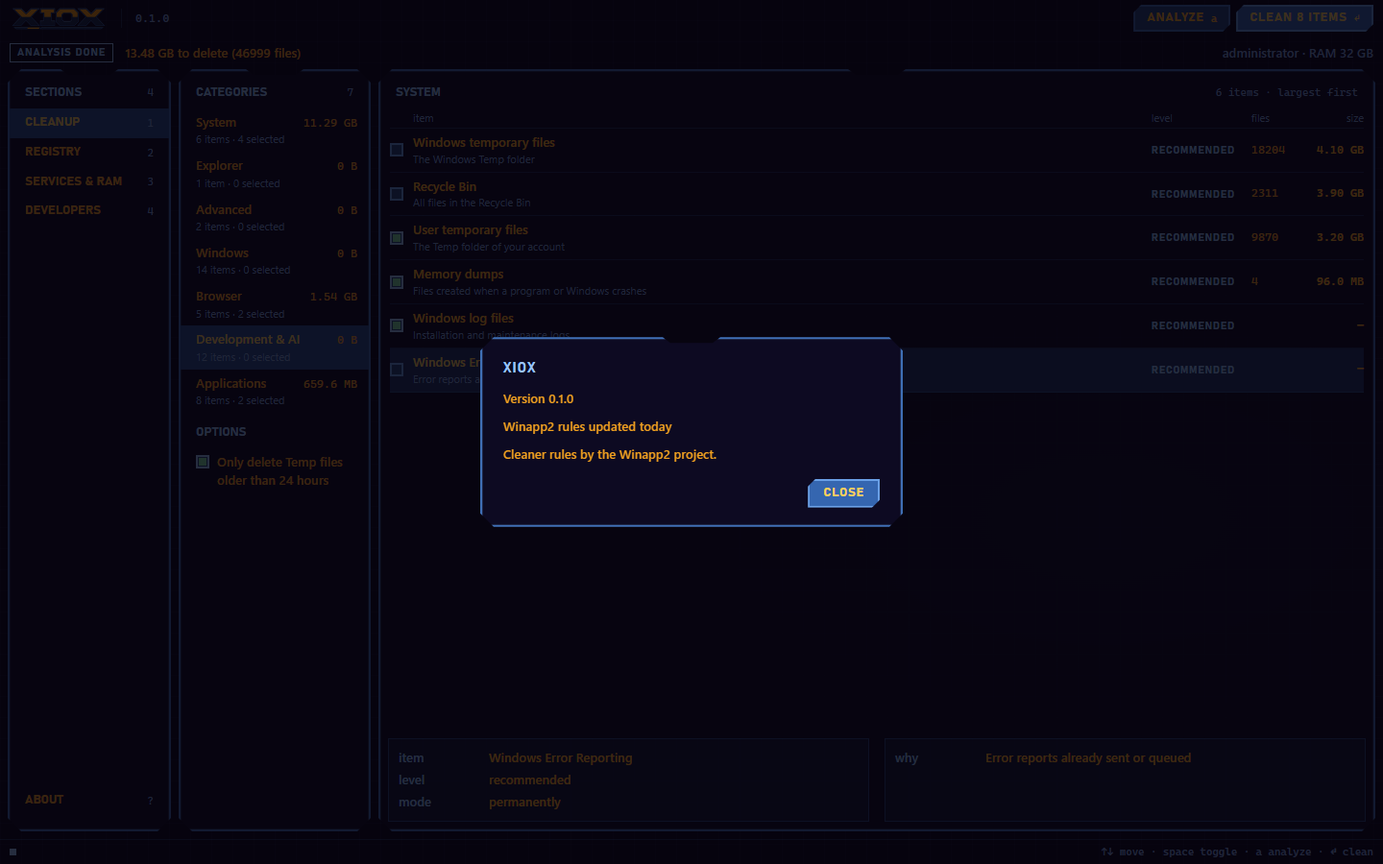
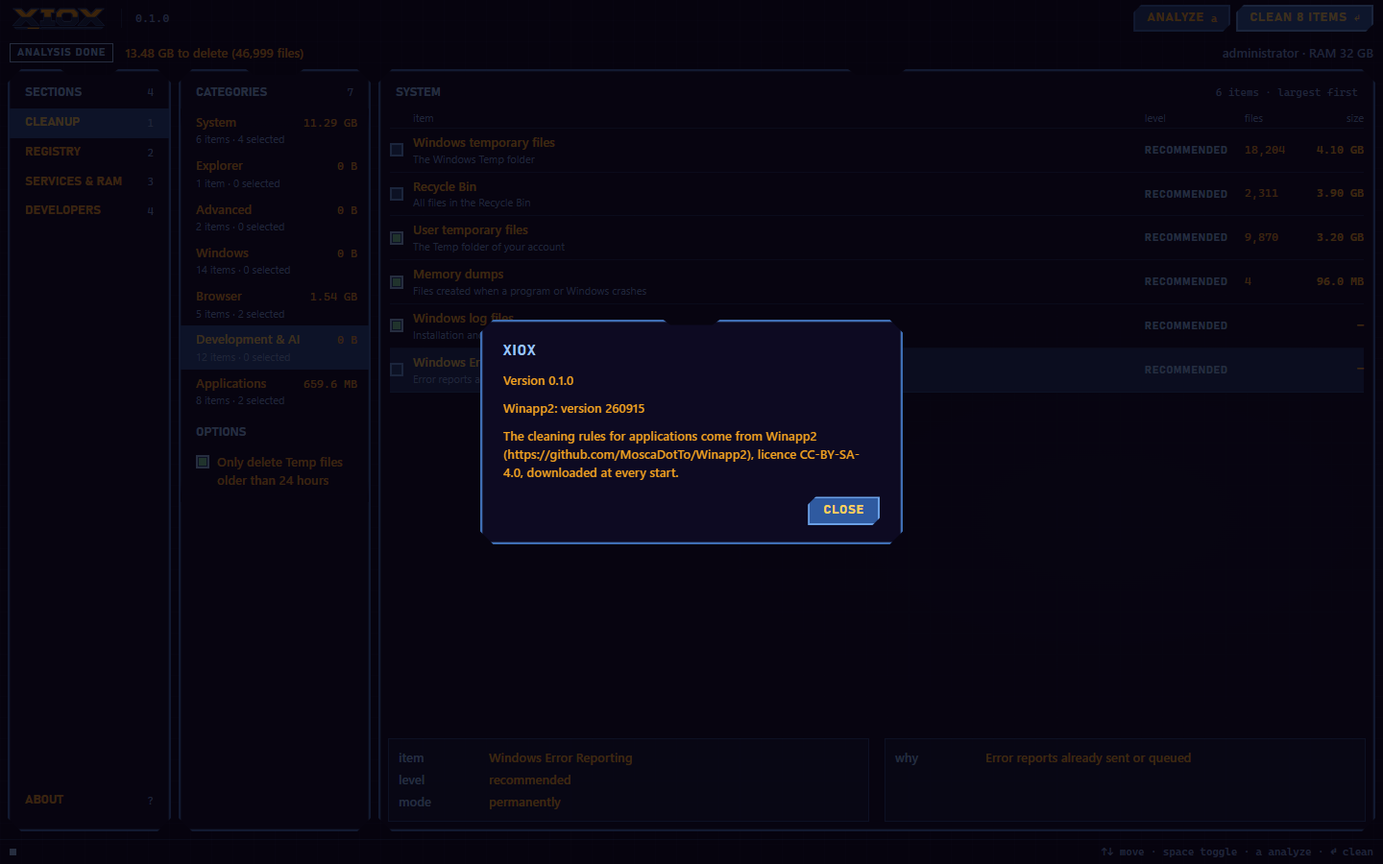
docs: guida, README e avvisi allineati; schermate rifatte
Guida: la sezione si chiama Cleanup ovunque (ancore comprese), nomi nuovi dei
file di dati (registry-backup, rules-backup, services-original,
cookie-keep-list) con una frase sui file con i nomi vecchi, gli avvisi con
+N more e i percorsi del resoconto descritti come sono ora. README: via "as the
old window did", badge dei test statico. package.json: engines node >=24.
THIRD_PARTY_NOTICES e xiox-cli.md corretti. Note interne in italiano segnate
come tali. Schermate rifatte dalle nuove da 1440x900 (About con
l'attribuzione); tolte le quattro vecchie schermate egui in shots/.

diff --git a/docs/xiox-desktop.md b/docs/xiox-desktop.md
@@ -1,7 +1,7 @@
 # Xiox: the desktop app
 
 Xiox is a Windows cleaner for people who code. The desktop app (`xiox-ui.exe`) is one window
-with four sections: **Files** (temporary files, caches, browser data, logs), **Registry**
+with four sections: **Cleanup** (temporary files, caches, browser data, logs), **Registry**
 (entries that point to files or programs that no longer exist), **Services & RAM** (services
 you can turn off, and how much memory they hold) and **Developers** (build folders, git
 worktrees and archived coding-agent sessions of every project on the PC).
@@ -14,7 +14,7 @@ uses.
 
 - [Starting it](#starting-it)
 - [The window](#the-window)
-- [Files](#files)
+- [Cleanup](#cleanup)
 - [Registry](#registry)
 - [Services & RAM](#services--ram)
 - [Developers](#developers)
@@ -53,19 +53,19 @@ the app prints a message and exits with code 2, instead of falling back to your 
 
 At start the app also loads the cleaning rules (and updates Winapp2 in the background, see
 [About](#about)) and removes the leftovers of a free-space wipe that a power cut or a crash
-interrupted (see [Files](#files)).
+interrupted (see [Cleanup](#cleanup)).
 
 ## The window
 
 ```text
 ┌────────────────────────────────────────────────────────────────────────────┐
 │ XIOX  0.1.0                                      [ Analyze a ] [ Clean … ↵ ]│  top bar
-│ ANALYSIS DONE   13.48 GB to delete (46999 files)  administrator · RAM 32 GB │  status row
+│ ANALYSIS DONE   13.48 GB to delete (46,999 files)  administrator · RAM 32 GB │  status row
 │ Cleaning…  ████████░░░░  64%  Windows temporary files                        │  progress (while a job runs)
 │ Xiox is cleaning the profile of “…”, not that of “…” …                       │  profile strip (when it applies)
 ├──────────┬────────────┬─────────────────────────────────────────────────────┤
 │ SECTIONS │ CATEGORIES │ title ................................  All  None    │
-│ Files   1│ System     │ ☐  Item         Level          Files        Size    │  list
+│ Cleanup 1│ System     │ ☐  Item         Level          Files        Size    │  list
 │ Registry2│ Explorer   │ ☑  …                                                │
 │ Services3│ …          │                                                     │
 │ Develop.4│ OPTIONS    ├─────────────────────────────────────────────────────┤
@@ -82,7 +82,7 @@ below say when. The style sheet writes the button labels in capitals; this guide
 they are written in the sentences of the app.
 
 **Status row.** On the left a badge (`Ready`, `Analyzing`, `Analysis done`, `Cleaning`,
-`Cleanup done`, ...) and a sentence with the figures (`13.48 GB to delete (46999 files)`,
+`Cleanup done`, ...) and a sentence with the figures (`13.48 GB to delete (46,999 files)`,
 `40 issues found · 2 selected`). On the right who you are running as, `administrator` or
 `standard user`, and the PC's total memory (`RAM 32 GB`).
 
@@ -96,9 +96,8 @@ approved with another administrator's password. "Your" Temp folder, browser data
 per-user locations are then those of account A, not of the person sitting at the screen. Close
 the app and start it again from the right account if that is not what you want.
 
-**Sections bar (the first sidebar).** Files `1`, Registry `2`, Services & RAM `3`,
-Developers `4`, and `About` (`?`). The number is the key that opens the section. The Files
-section is the entry named `Cleanup` in this bar.
+**Sections bar (the first sidebar).** Cleanup `1`, Registry `2`, Services & RAM `3`,
+Developers `4`, and `About` (`?`). The number is the key that opens the section.
 
 **Categories bar (the second sidebar).** The categories of the open section, each with its
 item count and, after an analysis, its size (`System`, `Explorer`, ...; for Developers
@@ -121,7 +120,10 @@ ticked. A caret folds and unfolds the rows under a parent. Where a section has m
 holds how many cookies.
 
 **Notices.** Coloured one-line strips above the list: a result, a warning, or an error or
-refusal. A strip that has more to say ends with `+2 more`; hover it to read the rest.
+refusal. A strip that has more to say ends with a `+2 more` button: reach it with `Tab` and press
+`Enter` or `Space` to open the extra lines under the strip, and again to close them. A result that
+only half worked (some keys not fixed, some services that failed) is shown in the warning colour,
+not as a success.
 
 **Footer.** The keys of the open section (`↑↓ move · space toggle · a analyze · ↵ clean`) and,
 in some sections, a line about the selection (`Selected in Projects: 6.80 GB · 2 folders`).
@@ -129,7 +131,7 @@ in some sections, a line about the selection (`Selected in Projects: 6.80 GB · 
 While a job runs the lists are frozen: you cannot tick or untick anything, because the
 selection is what the job is working on.
 
-## Files
+## Cleanup
 
 Temporary files, caches, browser data, logs and the other things Windows and your programs
 leave behind. This is the section the app opens in.
@@ -163,7 +165,7 @@ that choice belongs to [Developers](#developers).
 
 **Options.** `Only delete Temp files older than 24 hours`: when it is on, temporary folders are
 cleaned of files at least a day old, so a program that is writing a file right now keeps it. In
-`Browser`, `Edit cookie keep list` opens `Documents\Xiox\cookie_da_conservare.txt` in Notepad
+`Browser`, `Edit cookie keep list` opens `Documents\Xiox\cookie-keep-list.txt` in Notepad
 (it creates the file if it is missing): one domain per line, and the cookies of those sites are
 not removed. In `Applications`, a line says whether the Winapp2 rules are up to date.
 
@@ -219,7 +221,7 @@ or press `None` and tick only what you want. Nothing is changed until you press
 
 | Button | What it does |
 |---|---|
-| `Yes, back up and fix` | saves a `.reg` copy of the keys it is about to change in `Documents\Xiox` (the file is named `backup_registro_<date>_<time>.reg`, and an existing file is never overwritten), then fixes |
+| `Yes, back up and fix` | saves a `.reg` copy of the keys it is about to change in `Documents\Xiox` (the file is named `registry-backup-<date>_<time>.reg`, and an existing file is never overwritten), then fixes |
 | `Fix without backup` | fixes without saving anything |
 | `Cancel` | closes the question, nothing happens |
 
@@ -227,8 +229,9 @@ If the backup cannot be written, **nothing is fixed** and a notice says why (*Re
 failed (...): no repair was done.*).
 
 **The result** is a notice (`Fixed 2 issues.`, with the path of the backup on the line behind
-`+1 more`). If some keys could not be changed it adds how many and why (*not fixed
-(administrator rights are needed)*: start the app as administrator). When everything was fixed
+`+1 more`). If some keys could not be changed it adds how many and why (*1 not fixed
+(administrator rights are needed)*: start the app as administrator), and the strip turns to the
+warning colour. When everything was fixed
 the fixed issues leave the list; when something failed they stay.
 
 **There is no restore button in the app.** To go back, double-click the `.reg` file of the
@@ -247,8 +250,9 @@ services the first time you open it; `Refresh` (`a`) reads them again.
 **Show: Recommended / All.** `Recommended` (the default) lists only the services Xiox suggests
 turning off, each with the reason in the `why turn it off` line of the detail (*Needs a fax
 modem, which almost no PC has.*, *Sends usage data to Microsoft; Windows works without it.*).
-`All` lists every service. The search box filters by display name or service name. The status
-row says how many services were read and how many are recommended to turn off.
+`All` lists every service. The search box filters by display name or service name; when nothing matches, the list says
+`No services` and *Nothing matches “x”.* (*No services to show.* when there is no search). The
+status row says how many services were read and how many are recommended to turn off.
 
 **Memory.** The `RAM in use` meter in the second sidebar changes tone as the memory fills (a
 warning above 65%, an error above 85%) and is refreshed every two seconds while the section is
@@ -277,7 +281,7 @@ firewall, Windows Defender, Windows Update, the network stack, ...) and everythi
 an ordinary service process (drivers).
 
 **Restoring.** The first time Xiox changes a service it saves the service's startup type in
-`Documents\Xiox\servizi_originali.txt` (only the very first state is kept). `Restore originals`
+`Documents\Xiox\services-original.txt` (only the very first state is kept). `Restore originals`
 puts every saved one back and starts the ones that were `Automatic`. A service that could not be
 restored stays in the file for the next try.
 
@@ -298,7 +302,7 @@ those agents worked in; you can add more folders to look through.
 
 These options are saved (see [Where things are stored](#where-things-are-stored)). A note under
 `Deletion` reminds you that the Recycle Bin frees no space until you empty it, and that the
-`Recycle Bin` entry of Files empties it. If the settings cannot be saved a red line says so
+`Recycle Bin` entry of Cleanup empties it. If the settings cannot be saved a red line says so
 (`Settings not saved: ...`) and the options only last until you close the app.
 
 **Analyze** (`a`). Looks at the projects (the progress bar says `Looking at projects…`), then
@@ -362,7 +366,7 @@ permanently.*), then the figures (`2 folders · 6.80 GB`) and one line per folde
 
 **Space freed.** A cleaning that goes to the Recycle Bin frees no space yet: the report says
 `Sent to the Recycle Bin` with the size, and the status row `Space freed: 0 B`. The space comes
-back when you empty the Recycle Bin (the `Recycle Bin` entry of [Files](#files) does that).
+back when you empty the Recycle Bin (the `Recycle Bin` entry of [Cleanup](#cleanup) does that).
 
 ## Levels and blocked entries
 
@@ -382,7 +386,7 @@ of the row says why. The reason is a fact about your PC right now:
 
 | Where | Reason shown |
 |---|---|
-| Files | *Close Google Chrome to clean* (the program is running); *... : this option cannot be used* (the rule is not supported on this system); *Needs administrator: some folders are skipped* |
+| Cleanup | *Close Google Chrome to clean* (the program is running); *... : this option cannot be used* (the rule is not supported on this system); *Needs administrator: some folders are skipped* |
 | Services | *Needed by Windows: protected* |
 | Projects | *The project is in use by an agent: its folders are cleaned when the session is closed.*, or the reason it is locked or unreachable |
 | Worktrees | the `State` reason, for example *Unsaved changes: the worktree stays* |
@@ -400,7 +404,7 @@ of what will be touched, the warnings and its buttons. While it is open the rest
 inert: you cannot click or Tab behind it, and nothing can be ticked or unticked (what the
 warnings describe must be what runs). `Esc` or `Cancel` closes it and nothing runs.
 
-- **Files** asks `Start cleaning?` with *The selected files will be deleted permanently. Files in
+- **Cleanup** asks `Start cleaning?` with *The selected files will be deleted permanently. Files in
   use are left where they are.*, followed by `Warnings for the chosen options`: one line for each
   chosen entry that has a warning (cookies, emptying the Recycle Bin, an application cache that
   has to be downloaded again, ...). `Continue` starts.
@@ -413,7 +417,7 @@ milliseconds after the confirmation opens, and ignore a key that is held down: t
 opened the confirmation (or that you are still holding) must never also confirm it. A mouse click
 is never held back.
 
-**Cancel.** While an analysis or a cleaning runs in Files or Developers, a `Cancel` button
+**Cancel.** While an analysis or a cleaning runs in Cleanup or Developers, a `Cancel` button
 (`Esc`) appears in the top bar. It stops before the next file or item; it does not undo what was
 already done. An analysis that is cancelled keeps what it had found (the other rows have no
 figure and a notice says so); a cleaning that is cancelled ends with a report of what was done,
@@ -432,9 +436,9 @@ replaces the list:
 | the counts | `Files deleted`, `Folders deleted`, `Duration` |
 | notes | for example *Some files could not be removed. They are listed below.* |
 | `By category` | the freed size per category, largest first |
-| `Skipped (n)` | what was left alone, one line each: the item and the reason (*In use by another program*, *Left: protected or unreadable*, *Not started: the cleanup was cancelled*); hover for the full path |
+| `Skipped (n)` | what was left alone, one line each: the item and the reason (*In use by another program*, *Left: protected or unreadable*, *Not started: the cleanup was cancelled*); the full path is on a line of its own under it |
 | `Failed (n)` | what was tried and refused (*Access denied*) |
-| `Items (n)` | in Files: for each entry the size freed, how many were removed, how many were left and a note; a caret opens the details (which cookies were kept, what stayed in use, ...) |
+| `Items (n)` | in Cleanup: for each entry the size freed, how many were removed, how many were left and a note; a caret opens the details (which cookies were kept, what stayed in use, ...) |
 
 **Skipped** means left alone on purpose, or in use, or changed: nothing went wrong, it is simply
 still there. **Failed** means a removal was attempted and refused by Windows.
@@ -451,9 +455,9 @@ The engine is written so that a mistake costs a skipped entry, not your work. In
 - **Nothing is hidden.** Everything the section found is in the list, with its level and its
   reason. What cannot be removed is shown too, with the reason, not left out.
 - **Nothing runs by itself.** Opening the app, switching section or analyzing never deletes
-  anything. A removal needs, in this order, an analysis on screen (Files and Developers), a press
+  anything. A removal needs, in this order, an analysis on screen (Cleanup and Developers), a press
   of the main button and a click on the confirmation. Some entries start ticked (the
-  `Recommended` ones in Files, the engine's recommendation in Developers); the ticks are in plain
+  `Recommended` ones in Cleanup, the engine's recommendation in Developers); the ticks are in plain
   sight and the confirmation lists exactly what it is about to do.
 - **Pressing a key is not confirming.** `Enter` only opens the confirmation. Inside it, `Enter`
   and `Space` are ignored for the first 300 ms and while held.
@@ -461,7 +465,7 @@ The engine is written so that a mistake costs a skipped entry, not your work. In
   open, and the removal works on the analysis you were looking at, not on a newer one.
 - **The analysis is checked again.** In Developers an analysis older than 30 minutes is refused,
   only items the analysis itself would plan are accepted, and archived sessions are looked up
-  again right before they are deleted. The Files entries that need an analysis (PATH, network
+  again right before they are deleted. The Cleanup entries that need an analysis (PATH, network
   passwords, old Windows data) act only on what that analysis showed.
 - **Unsaved work is never the price.** A worktree with uncommitted changes, a project an agent is
   using and a session that is open are blocked. Worktrees go through `git worktree remove`, never
@@ -488,14 +492,14 @@ that is greyed out ignores its key.
 
 | Key | What it does |
 |---|---|
-| `1` `2` `3` `4` | open Files, Registry, Services & RAM, Developers |
+| `1` `2` `3` `4` | open Cleanup, Registry, Services & RAM, Developers |
 | `?` | open About (not while a confirmation is open) |
 | `↑` `↓` | move the selection one row |
 | `PageUp` `PageDown` | move ten rows |
 | `Home` `End` | first and last row |
 | `→` `←` | unfold and fold the rows under a project or an entry |
 | `Space` | tick or untick the selected row (not while a job runs, not on a blocked row) |
-| `a` | `Analyze` in Files and Developers, `Find issues` in Registry, `Refresh` in Services & RAM |
+| `a` | `Analyze` in Cleanup and Developers, `Find issues` in Registry, `Refresh` in Services & RAM |
 | `Enter` | the section's main button: `Clean`, `Fix selected` or `Disable`; it opens the confirmation |
 | `Esc` | in this order: close About or the confirmation; leave a text field; close the report; cancel the running job |
 | `Tab` `Shift`+`Tab` | next and previous control |
@@ -539,13 +543,16 @@ next chapter). Their licence stays their own.
 |---|---|
 | Developers options (`Days of inactivity`, `Deletion`, extra folders) | `%APPDATA%\Xiox\settings.json` |
 | The window's size and position | `%APPDATA%\Xiox\window.json` (next to the settings file) |
-| Registry backups | `Documents\Xiox\backup_registro_<date>_<time>.reg` |
-| The startup types saved before a service was changed | `Documents\Xiox\servizi_originali.txt` |
-| The cookie keep list | `Documents\Xiox\cookie_da_conservare.txt` |
+| Registry backups | `Documents\Xiox\registry-backup-<date>_<time>.reg` |
+| Backup of the registry keys an `Applications` rule is about to delete | `Documents\Xiox\rules-backup-<date>_<time>.reg` |
+| The startup types saved before a service was changed | `Documents\Xiox\services-original.txt` |
+| The cookie keep list | `Documents\Xiox\cookie-keep-list.txt` |
 | `.reg` backup of an Environment PATH change | `Documents\Xiox` |
 | The Winapp2 rules | `%ProgramData%\Xiox\winapp2\` |
 | Cache of the agent-session listing | `%LOCALAPPDATA%\Xiox\mukade` |
 | Reports | nowhere, unless you press `Save as text…` and choose a place |
+
+Files that an earlier version created under their old names (`servizi_originali.txt`, `cookie_da_conservare.txt`) keep working: Xiox goes on reading and writing the old file if it is there, and never renames, copies or deletes it.
 
 `Documents` is your Documents folder (`%USERPROFILE%\Documents`). The app writes nothing else
 outside the places you choose. A window position that no longer fits is ignored; a settings file
@@ -555,7 +562,7 @@ that cannot be written is reported in the window (`Settings not saved: ...`).
 
 **A button is greyed out.** It has a reason, and it is one of these: a job is running (wait for
 it, or `Cancel`); a confirmation is open (answer it); nothing is ticked; there is no analysis yet
-(Files: *Analyze first: Clean works on the analysis on screen.*); the report is open (close it);
+(Cleanup: *Analyze first: Clean works on the analysis on screen.*); the report is open (close it);
 or there is nothing to do (`Restore originals (0)`).
 
 **A row cannot be ticked.** It is blocked: read the second line of the row, or the `blocked` line
@@ -581,7 +588,7 @@ you are most likely to meet:
 user, so keys under `HKLM` cannot be changed. Start the production build (it asks for
 administrator rights) and scan again.
 
-**Files: `n folders skipped: they need administrator rights`.** Same cause: some system folders
+**Cleanup: `n folders skipped: they need administrator rights`.** Same cause: some system folders
 could not be read or cleaned as a standard user.
 
 **The report lists Skipped or Failed items.** `Skipped` items are still there: they were in use
@@ -589,7 +596,7 @@ could not be read or cleaned as a standard user.
 refused by Windows. Analyze again to see what is left; items that are still blocked say why.
 
 **Space was not freed after a Developers cleaning.** It went to the Recycle Bin. Empty it with
-the `Recycle Bin` entry of Files, or choose `Permanently` next time.
+the `Recycle Bin` entry of Cleanup, or choose `Permanently` next time.
 
 **`OpenCode sessions could not be read: some projects may be missing.`** The list of that
 agent's sessions was not readable, so the projects only that agent knows are not in this

diff --git a/README.md b/README.md
@@ -18,7 +18,7 @@ A Windows cleaner for people who code, with a command line that agents can drive
 <p align="center">
   <img src="https://img.shields.io/badge/Rust-engine-FFB21E?style=flat-square&labelColor=0B0416" alt="Rust engine">
   <img src="https://img.shields.io/badge/Windows-10%20%2F%2011-3F6FB5?style=flat-square&labelColor=0B0416" alt="Windows 10 and 11">
-  <img src="https://img.shields.io/badge/tests-1217%20passing-8FD6FF?style=flat-square&labelColor=0B0416" alt="1217 tests passing">
+  <img src="https://img.shields.io/badge/tests-passing-8FD6FF?style=flat-square&labelColor=0B0416" alt="Tests passing">
   <img src="https://img.shields.io/badge/CLI-never%20asks%20for%20admin-9CC4F5?style=flat-square&labelColor=0B0416" alt="The CLI never asks for administrator rights">
 </p>
 
@@ -140,7 +140,7 @@ The look follows the suite: a violet-black stage, steel-blue frames with cut cor
 
 - **Nothing is removed without a confirmation.** Every clean opens a dialog that lists what will run and its warnings; items at the `caution` level need the box "I have read the warnings" ticked first.
 - **Keyboard first.** `↑` `↓` move, `space` toggles, `a` analyzes, `Enter` cleans (and asks first), `Esc` closes a dialog, `?` opens About. Every control is also reachable with `Tab`.
-- **It asks for administrator rights at start**, as the old window did: the registry, the services and the system folders need them. The status bar shows `administrator` or `standard user`. The command line never asks.
+- **It asks for administrator rights at start**: the registry, the services and the system folders need them. The status bar shows `administrator` or `standard user`. The command line never asks.
 - **Same guards as the CLI.** The page only sends clicks: what can be selected or removed is decided in Rust, through the same `xiox_cleaner` guard and the fresh analysis before every removal.
 - **No network from the window**, apart from the Winapp2 rules update, which runs in the engine as before.
 

diff --git a/THIRD_PARTY_NOTICES.md b/THIRD_PARTY_NOTICES.md
@@ -44,7 +44,7 @@ Licensed under CC-BY-SA-4.0. Xiox downloads `Winapp2.ini` at runtime to read its
 
 ### Embedded CleanerML cleaners
 
-The eleven XML cleaners in `cleaners/` (Claude Code, Codex, Gemini CLI, OpenCode, Cargo, crash dumps, Go, JetBrains, npm, pip, GPU shaders) are compiled into the executable. They are authored or adapted for this app and are covered by the app's own licence.
+The XML cleaners in `cleaners/` are compiled into the executable. They are authored or adapted for this app and are covered by the app's own licence.
 
 ### Also looked at (ideas only, no code)
 

diff --git a/docs/reference/devclean-DESIGN.md b/docs/reference/devclean-DESIGN.md
@@ -1,3 +1,5 @@
+> Internal working notes, written in Italian.
+
 > Copia di `D:\Projects\KKK\devclean\docs\DESIGN.md` (progetto unito in Xiox (prima PulisciPC) come voce Sviluppatori), presa il 2026-11-12 prima di eliminare la cartella. I percorsi qui sotto (`src-tauri`, `vendor/mukade`, WizTree) sono quelli di devclean. Dal 2026-11-13 i crate `dc-*` si chiamano `xiox-*` (`dc-mukade` -> `xiox-mukade`); il resto del testo è quello di allora.
 
 # devclean: design (v0, 2026-11-08)

diff --git a/docs/cleaners-verifica-native.md b/docs/cleaners-verifica-native.md
@@ -1,3 +1,5 @@
+> Internal working notes, written in Italian.
+
 # Verifica dei percorsi: lotto «native» (Task 9, Parte B)
 
 Ogni percorso dei cleaner di questo lotto è stato controllato sulla documentazione o sul codice ufficiale dello strumento (sito, repository GitHub dello strumento). Data della verifica: 2026-11-10. Stato: **tenuta** (documentata), **cambiata** (la fonte dice altro dalla tabella della spec), **tolta** (non documentata o non raggiungibile dal motore).

diff --git a/docs/cleaners-verifica-jvm.md b/docs/cleaners-verifica-jvm.md
@@ -1,3 +1,5 @@
+> Internal working notes, written in Italian.
+
 # Verifica dei percorsi: lotto «jvm» (Task 9, Parte B)
 
 Regola 4 della spec `docs/superpowers/specs/2026-11-10-catalogo-sviluppo-design.md`: ogni percorso è controllato sulla documentazione ufficiale dello strumento (sito o GitHub dello strumento). Dove la documentazione non dà il percorso letterale, si cita il sorgente ufficiale che lo definisce. Data della verifica: 2026-11-10.

diff --git a/docs/reference/devclean-mukade-VENDORED.md b/docs/reference/devclean-mukade-VENDORED.md
@@ -1,3 +1,5 @@
+> Internal working notes, written in Italian.
+
 > Copia di `D:\Projects\KKK\devcleanendor\mukade\VENDORED.md`, presa il 2026-11-12 prima di eliminare la cartella. La copia di mukade usata da Xiox (prima PulisciPC) è descritta in `vendor/mukade/VENDORED.md`. Dal 2026-11-13 i crate `dc-*` si chiamano `xiox-*` (`dc-mukade` -> `xiox-mukade`); il resto del testo è quello di allora.
 
 # Vendored: mukade

diff --git a/docs/cleaners-verifica-web.md b/docs/cleaners-verifica-web.md
@@ -1,3 +1,5 @@
+> Internal working notes, written in Italian.
+
 # Verifica dei percorsi: lotto «web» (Task 9, Parte B)
 
 Ogni voce ha la sua fonte (documentazione o repository ufficiale dello strumento). Dove la fonte dice `~` si intende `%USERPROFILE%`. File 🔒 non toccati: `token`, `stored_tokens` (Hugging Face), `keras.json`, `settings.json` e `keybindings.json` (editor), `auth.ini` di pnpm.

diff --git a/docs/rules-coverage.md b/docs/rules-coverage.md
@@ -1,3 +1,5 @@
+> Internal working notes, written in Italian.
+
 # Copertura delle voci di pulizia di Windows in Xiox (Fase 3)
 
 Stato: inventario e tabella di copertura per la Fase 3 della spec `docs/superpowers/specs/2026-11-10-dev-mode-design.md` (sezione «Copertura nativa»). Decisione dell'utente: **tutto l'elenco**, anche le voci per programmi non installati su questo PC.

diff --git a/docs/xiox-cli.md b/docs/xiox-cli.md
@@ -26,7 +26,7 @@ There is no installer. Build the release executable from the workspace root (the
 `Cargo.toml`). You need a Rust toolchain (`cargo`):
 
 ```powershell
-cargo build --release -p xiox-cli
+cargo build --release --locked -p xiox-cli
 ```
 
 The result is `target\release\xiox.exe` (about 3.2 MB, one file). Copy it anywhere, or put its
